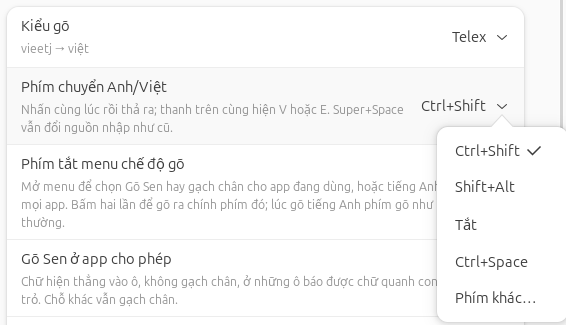
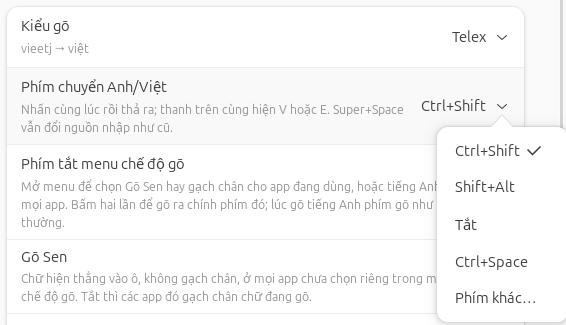
feat: publish Ngó Sen cho GNOME 1.2.2-1 (#72)
Gõ Sen now types straight into every app, so the GNOME pages drop the
"fields that report text, underline elsewhere" wording and use the
option's new name "Gõ Sen". The top-bar menu and switch-key
screenshots are retaken with the released 1.2.2-1 package.

Assisted-by: AI

Changed region(s): [[0.03, 0.7692, 0.7809, 0.9538]]

diff --git a/src/data/site.ts b/src/data/site.ts
@@ -1690,7 +1690,7 @@ export const GNOME_GUIDE = [
   {
     href: '/ngo-sen-cho-gnome/huong-dan/che-do-go/',
     label: 'Gõ Sen hay gạch chân cho từng app',
-    summary: 'Menu phím `, chế độ riêng cho app đang dùng, tuỳ chọn “Gõ Sen ở app cho phép”.',
+    summary: 'Menu phím `, chế độ riêng cho app đang dùng, tuỳ chọn “Gõ Sen”.',
   },
   {
     href: '/ngo-sen-cho-gnome/huong-dan/sua-dau/',
@@ -1717,6 +1717,12 @@ export const GNOME_GUIDE = [
 // Releases of Ngó Sen cho GNOME, newest first: the opening paragraph of each CHANGELOG.md entry in
 // ngosen/ibus-ngosen, without its download link. Add an entry here when that repository releases.
 export const IBUS_RELEASES: { version: string; date: string; summary: string }[] = [
+  {
+    version: '1.2.2-1',
+    date: '10/11/2026',
+    summary:
+      'Gõ Sen ở mọi app như bản fcitx5, kể cả app Electron, Chrome và terminal trên X11; biểu tượng và logo giống bản fcitx5; cửa sổ cài đặt không còn cắt chữ. Dùng lõi Ngó Sen `ngosen-1.9.0-1`.',
+  },
   {
     version: '1.2.1-1',
     date: '09/11/2026',
